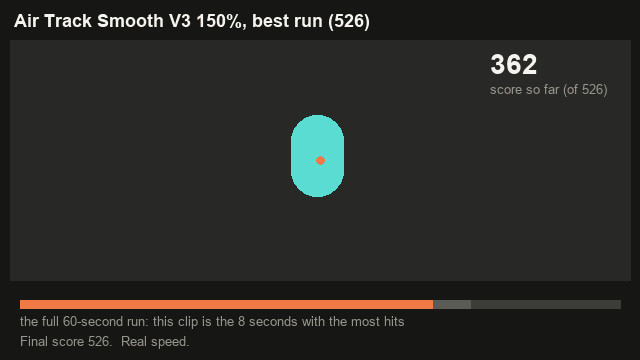
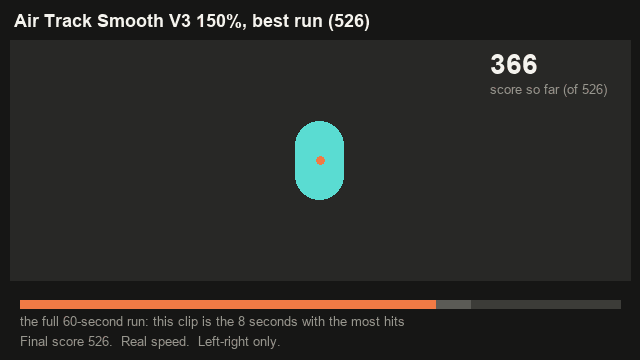
Sphere bots drawn as balls; best-run GIFs left-right only where bot height is unreliable

diff --git a/best_run_gif.py b/best_run_gif.py
@@ -36,7 +36,10 @@ U = lambda deg, d: math.tan(math.radians(deg)) * d
 OFF = st.median(U(S[i]["ey"], S[i]["d"]) for i in hit_i)                      # aim point vs the recorded bot position
 hw = sorted(abs(U(S[i]["ex"], S[i]["d"])) for i in hit_i)[int(.9 * len(hit_i))]
 hh = sorted(abs(U(S[i]["ey"], S[i]["d"]) - OFF) for i in hit_i)[int(.9 * len(hit_i))]
-hw = max(hw, 0.45 * hh)          # precise left-right aim underestimates width: keep a capsule shape
+hw = max(hw, 0.45 * hh)
+LR_ONLY = abs(OFF) > 4 * sorted(abs(U(S[i]["ex"], S[i]["d"])) for i in hit_i)[int(.9 * len(hit_i))]   # recorded height unreliable (flying bots)
+if LR_ONLY: hh = 2.2 * hw
+if "SPHERE" in label.upper(): hh = hw = max(hw, sorted(abs(U(S[i]["ex"], S[i]["d"])) for i in hit_i)[int(.98 * len(hit_i))])   # a ball, not a capsule          # precise left-right aim underestimates width: keep a capsule shape
 D0 = st.median(S[i]["d"] for i in hit_i)
 W, H = 640, 360
 try: F = ImageFont.truetype("arialbd.ttf", 18); FS = ImageFont.truetype("arial.ttf", 13); FB = ImageFont.truetype("arialbd.ttf", 28)
@@ -51,7 +54,7 @@ for i in range(a, b, 2):                          # every other sample: 30 frame
     d.text((14, 10), label, fill=INK, font=F)
     cx, cy = W // 2, 160
     if s:
-        cey = math.degrees(math.atan2(U(s["ey"], s["d"]) - OFF, s["d"]))     # aim error to the bot's centre
+        cey = 0.0 if LR_ONLY else math.degrees(math.atan2(U(s["ey"], s["d"]) - OFF, s["d"]))     # aim error to the bot's centre
         bx, by = cx + s["ex"] * SCALE, cy - cey * SCALE
         rx, ry = math.degrees(math.atan(hw / s["d"])) * SCALE, math.degrees(math.atan(hh / s["d"])) * SCALE
         d.rounded_rectangle([bx - rx, by - ry, bx + rx, by + ry], radius=min(rx, ry), fill=BOT)
@@ -67,7 +70,7 @@ for i in range(a, b, 2):                          # every other sample: 30 frame
     d.rectangle([X(a), ty, X(b), ty + 8], fill=(90, 90, 84))
     d.rectangle([X(first), ty, X(i), ty + 8], fill=ACC)
     d.text((tx0, ty + 14), "the full 60-second run: this clip is the 8 seconds with the most hits", fill=DIM, font=FS)
-    d.text((tx0, ty + 34), f"Final score {score}.  Real speed.", fill=DIM, font=FS)
+    d.text((tx0, ty + 34), f"Final score {score}.  Real speed." + ("  Left-right only." if LR_ONLY else ""), fill=DIM, font=FS)
     frames.append(im.convert("P", palette=Image.ADAPTIVE, colors=24))
 frames += [frames[-1]] * 15
 frames[0].save(out, save_all=True, append_images=frames[1:], duration=33, loop=0, optimize=True)

diff --git a/pb_video.py b/pb_video.py
@@ -44,7 +44,8 @@ if EST:   # bot height from the aim at hit moments, linearly interpolated, light
     BP = [st.mean(BP[max(0, k - 3):k + 4]) for k in range(n)]
 else:
     BP = [raw_pitch(i) - math.degrees(math.atan(OFFU / hd(i))) if BOT[i] else None for i in range(n)]
-HH = 2.2 * HW
+SPHERE = "SPHERE" in title.upper()               # Air Control Sphere scenarios use a ball, not a capsule
+HH = HW if SPHERE else 2.2 * HW
 BOTW = []   # visible bot centre in world space
 for i in range(n):
     if BOT[i] is None: BOTW.append(None); continue
@@ -92,7 +93,7 @@ def frame(i, final=False):
         c = proj(*BOTW[i])
         if c:
             fz = math.hypot(BOTW[i][0] - cx0, BOTW[i][1] - cy0)
-            rx, ry = max(3, HW / fz * f), max(6, HH / fz * f)
+            rx, ry = max(3, HW / fz * f), max(3 if SPHERE else 6, HH / fz * f)
             d.rounded_rectangle([c[0] - rx, c[1] - ry, c[0] + rx, c[1] + ry], radius=rx, fill=BOTC)
     d.ellipse([Wd / 2 - 3, Ht / 2 - 3, Wd / 2 + 3, Ht / 2 + 3], fill=AIMC)
     run_len = (end - start) * DT

diff --git a/weak_moment_auto.py b/weak_moment_auto.py
@@ -33,6 +33,8 @@ HW = sorted(abs(U(by[i] - yaw[i], dist[i])) for i in hit_i)[int(.9 * len(hit_i))
 HH = sorted(abs(U(bp[i] - pit[i], dist[i]) - OFF) for i in hit_i)[int(.9 * len(hit_i))]
 if LR_ONLY: HH = 2.2 * HW                        # draw a normal capsule; its height isn't measured
 HW = max(HW, 0.45 * HH)
+if "SPHERE" in os.path.basename(path).upper():    # a ball, not a capsule
+    HH = HW = sorted(abs(U(by[i] - yaw[i], dist[i])) for i in hit_i)[int(.98 * len(hit_i))]
 cbp = [None if bp[i] is None else (pit[i] if LR_ONLY else math.degrees(math.atan2(U(bp[i], dist[i]) - OFF, dist[i]))) for i in range(n)]   # bot centre pitch
 ex = [None if by[i] is None else (by[i] - yaw[i]) for i in range(n)]
 ey = [None if by[i] is None else (cbp[i] - pit[i]) for i in range(n)]
